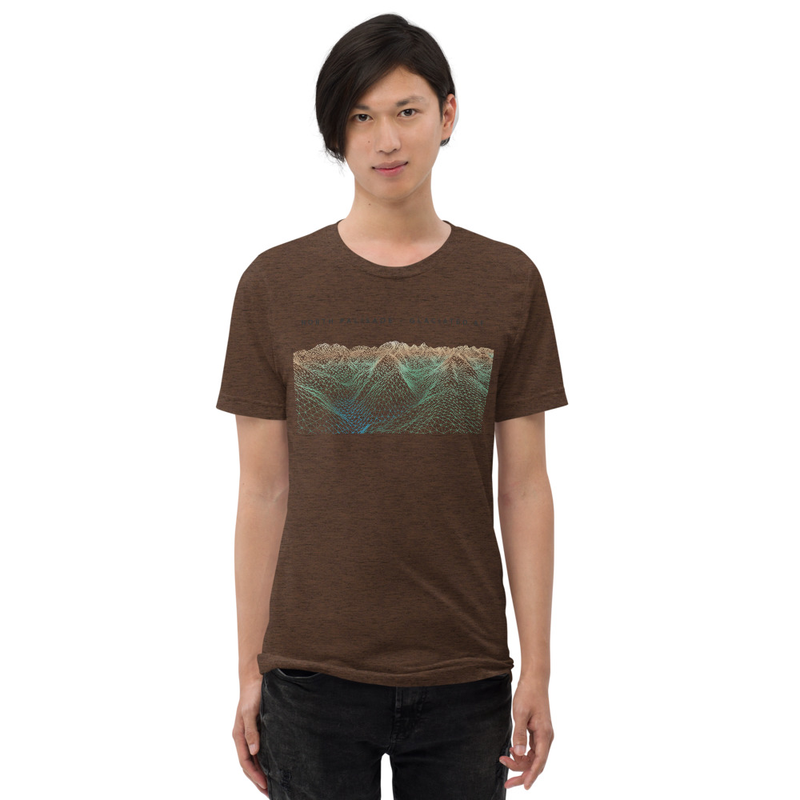
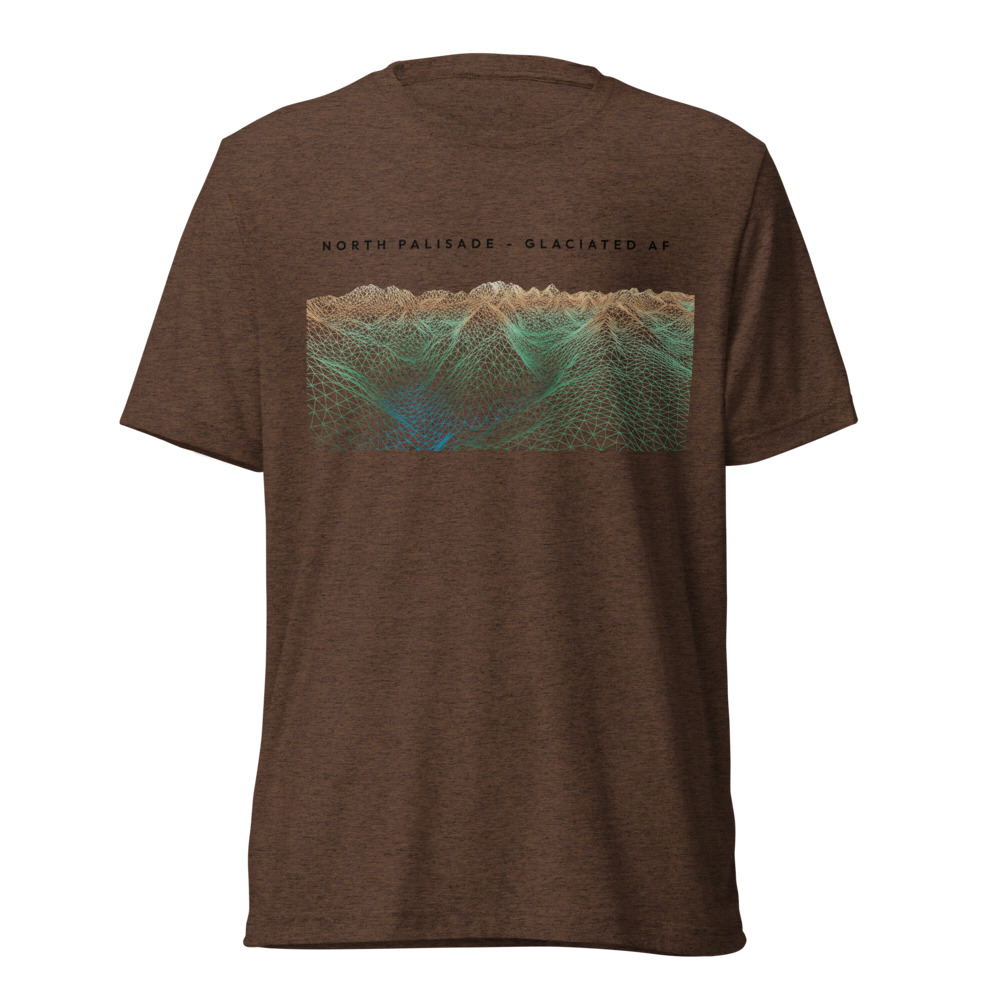
feat(merch): standardize flat shirt mockups and add interactive design magnifier
- Standardize North Palisade mockups to front flat/ghost t-shirt views matching other products
- Add click-to-zoom magnifier modal on all product cards to inspect fine print detail and fabric texture on currently selected color at 2.5x magnification

diff --git a/merch/index.md b/merch/index.md
@@ -27,16 +27,29 @@ hero_image: /assets/images/paragliding_plains_cloudscape.jpg
     {% endunless %}
 
     <div class="card merch-card" data-slug="{{ prod_slug }}" style="padding: 0; overflow: hidden; display: flex; flex-direction: column;">
-      <a class="merch-img-link" href="{{ default_size_data.url }}" target="_blank" rel="noopener" style="display: block; text-decoration: none !important;">
-        <div style="display: flex; align-items: center; justify-content: center; height: 280px; background: #ffffff;">
-          <img
-            class="merch-shirt-img"
-            src="{{ default_color.image | relative_url }}"
-            alt="{{ prod.name }} - {{ default_color_name }}"
-            style="max-width: 100%; max-height: 270px; object-fit: contain; display: block; transition: opacity 0.2s ease;"
-          >
-        </div>
-      </a>
+      <div class="merch-img-container" style="position: relative; display: flex; align-items: center; justify-content: center; height: 290px; background: #ffffff; cursor: pointer; overflow: hidden;" title="Click to zoom in on design">
+        <img
+          class="merch-shirt-img"
+          src="{{ default_color.image | relative_url }}"
+          alt="{{ prod.name }} - {{ default_color_name }}"
+          style="max-width: 100%; max-height: 280px; object-fit: contain; display: block; transition: opacity 0.2s ease;"
+        >
+        <button
+          type="button"
+          class="merch-zoom-badge"
+          aria-label="Zoom in on design"
+          style="position: absolute; bottom: 10px; right: 10px; background: rgba(0, 0, 0, 0.65); color: #ffffff; border: none; border-radius: 20px; padding: 4px 10px; font-size: 0.75rem; font-weight: 600; display: flex; align-items: center; gap: 4px; backdrop-filter: blur(4px); cursor: pointer; pointer-events: auto; transition: background 0.15s ease;"
+        >
+          <svg width="13" height="13" viewBox="0 0 24 24" fill="none" stroke="currentColor" stroke-width="2.5" stroke-linecap="round" stroke-linejoin="round" style="display: block;">
+            <circle cx="11" cy="11" r="8"></circle>
+            <line x1="21" y1="21" x2="16.65" y2="16.65"></line>
+            <line x1="11" y1="8" x2="11" y2="14"></line>
+            <line x1="8" y1="11" x2="14" y2="11"></line>
+          </svg>
+          Zoom Design
+        </button>
+      </div>
+
       <div style="padding: 1.25rem; display: flex; flex-direction: column; flex-grow: 1;">
         <div style="font-size: 0.75rem; text-transform: uppercase; font-weight: 700; color: var(--text-muted); margin-bottom: 0.35rem;">
           {{ prod.tag }}
@@ -91,6 +104,34 @@ hero_image: /assets/images/paragliding_plains_cloudscape.jpg
 
 </div>
 
+<!-- Interactive Magnifier / Zoom Modal -->
+<div id="merch-zoom-modal" style="display: none; position: fixed; inset: 0; z-index: 9999; background: rgba(0, 0, 0, 0.82); backdrop-filter: blur(6px); align-items: center; justify-content: center; padding: 1.5rem; box-sizing: border-box; opacity: 0; transition: opacity 0.2s ease;">
+  <div style="position: relative; max-width: 900px; width: 100%; max-height: 90vh; background: #ffffff; border-radius: 8px; overflow: hidden; display: flex; flex-direction: column; box-shadow: 0 20px 40px rgba(0,0,0,0.5);">
+    <!-- Modal Header -->
+    <div style="display: flex; align-items: center; justify-content: space-between; padding: 0.85rem 1.25rem; border-bottom: 1px solid #e5e7eb; background: #fafafa;">
+      <div>
+        <h4 id="zoom-modal-title" style="margin: 0; font-size: 1.05rem; color: #111827; font-weight: 600;">Product Title</h4>
+        <div id="zoom-modal-subtitle" style="font-size: 0.8rem; color: #6b7280; margin-top: 0.15rem;">Selected Color · Click or drag to inspect fabric & print details</div>
+      </div>
+      <button id="zoom-modal-close" type="button" aria-label="Close zoom modal" style="background: transparent; border: none; font-size: 1.75rem; line-height: 1; cursor: pointer; color: #4b5563; padding: 0.25rem 0.5rem; border-radius: 4px;">&times;</button>
+    </div>
+
+    <!-- Modal Image Area with Magnifier Pan -->
+    <div id="zoom-image-viewport" style="position: relative; overflow: hidden; height: 60vh; min-height: 380px; max-height: 640px; display: flex; align-items: center; justify-content: center; background: #f3f4f6; cursor: crosshair;">
+      <img
+        id="zoom-modal-img"
+        src=""
+        alt="Magnified Design View"
+        style="max-width: 95%; max-height: 95%; object-fit: contain; display: block; transform-origin: center center; transition: transform 0.1s ease-out; user-select: none;"
+      >
+      <!-- Mode Toggle pill in modal -->
+      <div style="position: absolute; bottom: 12px; left: 50%; transform: translateX(-50%); background: rgba(17, 24, 39, 0.75); color: #fff; padding: 5px 14px; border-radius: 20px; font-size: 0.78rem; pointer-events: none; backdrop-filter: blur(4px);">
+        Move cursor over image to magnify design details (2.5x)
+      </div>
+    </div>
+  </div>
+</div>
+
 <hr style="margin: 3rem 0 2rem 0;">
 
 <div class="spec-box" style="text-align: center; padding: 2.25rem 1.5rem; margin-top: 2rem;">
@@ -110,6 +151,66 @@ hero_image: /assets/images/paragliding_plains_cloudscape.jpg
 
   const baseUrl = "{{ '' | relative_url }}";
 
+  // Modal elements
+  const modal = document.getElementById('merch-zoom-modal');
+  const modalImg = document.getElementById('zoom-modal-img');
+  const modalTitle = document.getElementById('zoom-modal-title');
+  const modalSubtitle = document.getElementById('zoom-modal-subtitle');
+  const modalClose = document.getElementById('zoom-modal-close');
+  const zoomViewport = document.getElementById('zoom-image-viewport');
+
+  function openZoomModal(title, color, imgSrc) {
+    if (!modal || !modalImg) return;
+    modalTitle.textContent = title;
+    modalSubtitle.textContent = `${color} · Pan cursor to inspect texture & graphic detail`;
+    modalImg.src = imgSrc;
+    modalImg.style.transform = 'scale(1)';
+    modal.style.display = 'flex';
+    requestAnimationFrame(() => {
+      modal.style.opacity = '1';
+    });
+  }
+
+  function closeZoomModal() {
+    if (!modal) return;
+    modal.style.opacity = '0';
+    setTimeout(() => {
+      modal.style.display = 'none';
+      if (modalImg) modalImg.src = '';
+    }, 200);
+  }
+
+  if (modalClose) {
+    modalClose.addEventListener('click', closeZoomModal);
+  }
+  if (modal) {
+    modal.addEventListener('click', (e) => {
+      if (e.target === modal) closeZoomModal();
+    });
+  }
+  document.addEventListener('keydown', (e) => {
+    if (e.key === 'Escape' && modal && modal.style.display === 'flex') {
+      closeZoomModal();
+    }
+  });
+
+  // Pan / Magnify functionality inside modal viewport
+  if (zoomViewport && modalImg) {
+    zoomViewport.addEventListener('mousemove', (e) => {
+      const rect = zoomViewport.getBoundingClientRect();
+      const x = ((e.clientX - rect.left) / rect.width) * 100;
+      const y = ((e.clientY - rect.top) / rect.height) * 100;
+      modalImg.style.transformOrigin = `${x}% ${y}%`;
+      modalImg.style.transform = 'scale(2.5)';
+    });
+
+    zoomViewport.addEventListener('mouseleave', () => {
+      modalImg.style.transformOrigin = 'center center';
+      modalImg.style.transform = 'scale(1)';
+    });
+  }
+
+  // Iterate over product cards
   document.querySelectorAll('.merch-card').forEach(card => {
     const slug = card.getAttribute('data-slug');
     const prodData = catalog[slug];
@@ -118,7 +219,7 @@ hero_image: /assets/images/paragliding_plains_cloudscape.jpg
     const colorSelect = card.querySelector('.merch-color-select');
     const sizeSelect = card.querySelector('.merch-size-select');
     const imgEl = card.querySelector('.merch-shirt-img');
-    const imgLink = card.querySelector('.merch-img-link');
+    const imgContainer = card.querySelector('.merch-img-container');
     const buyBtn = card.querySelector('.merch-buy-btn');
     const priceSpan = card.querySelector('.merch-btn-price');
 
@@ -160,9 +261,18 @@ hero_image: /assets/images/paragliding_plains_cloudscape.jpg
 
       if (variantData) {
         if (buyBtn) buyBtn.href = variantData.url;
-        if (imgLink) imgLink.href = variantData.url;
         if (priceSpan) priceSpan.textContent = variantData.price;
       }
+    }
+
+    // Clicking image or zoom button opens the magnifier modal for currently selected color
+    if (imgContainer) {
+      imgContainer.addEventListener('click', () => {
+        const currentColor = colorSelect.value;
+        const colorInfo = prodData.colors[currentColor];
+        const currentImgSrc = (colorInfo && colorInfo.image) ? (baseUrl + colorInfo.image) : (imgEl ? imgEl.src : '');
+        openZoomModal(prodData.name, currentColor, currentImgSrc);
+      });
     }
 
     colorSelect.addEventListener('change', () => {
